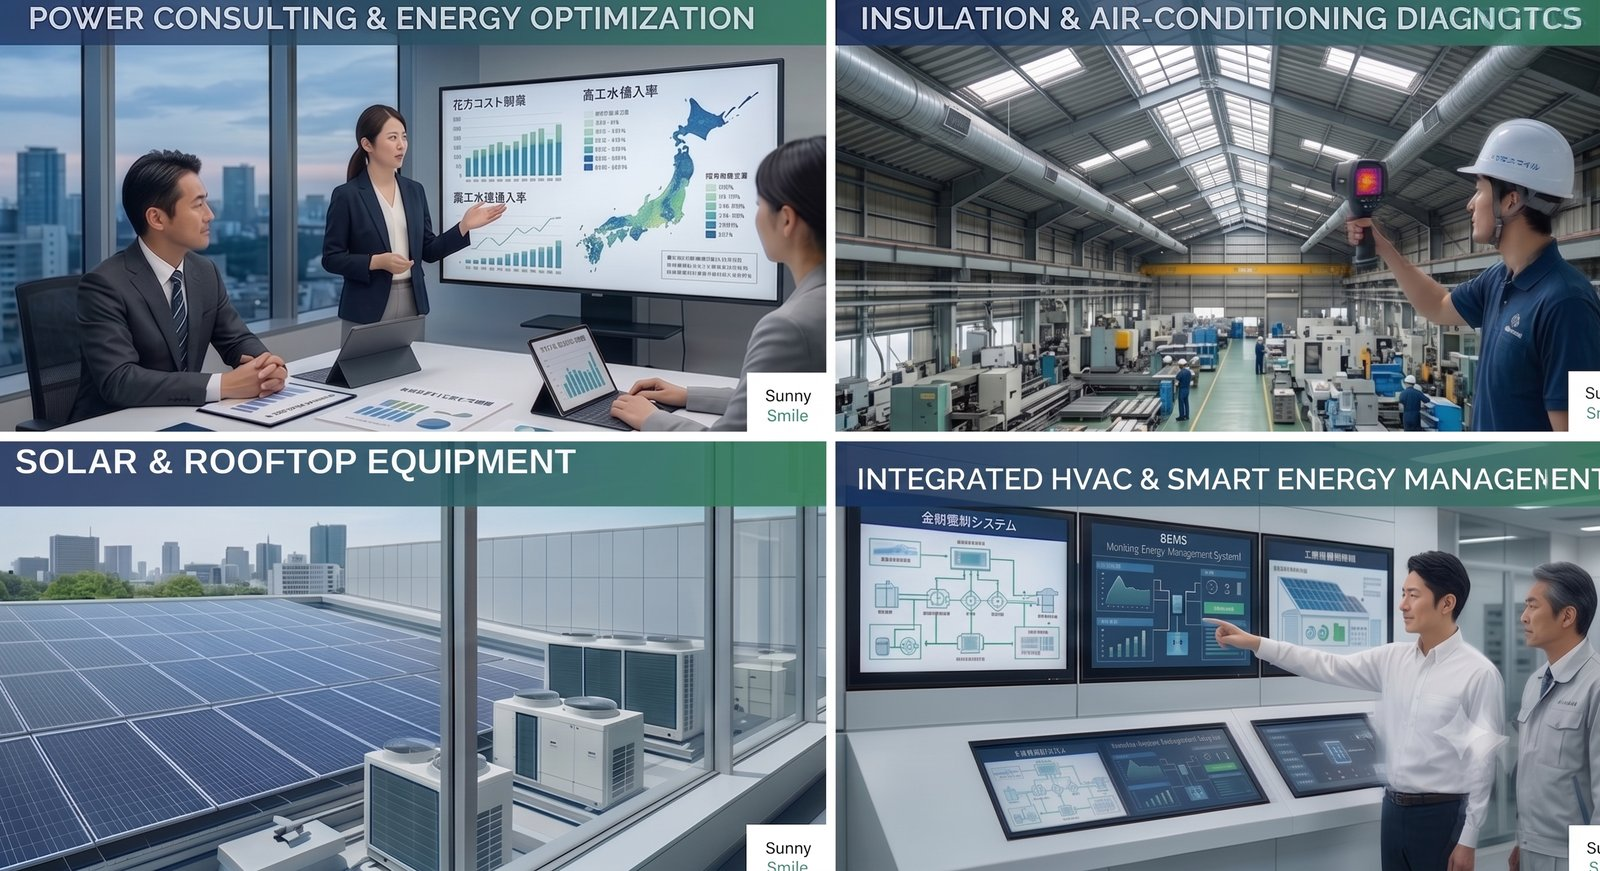
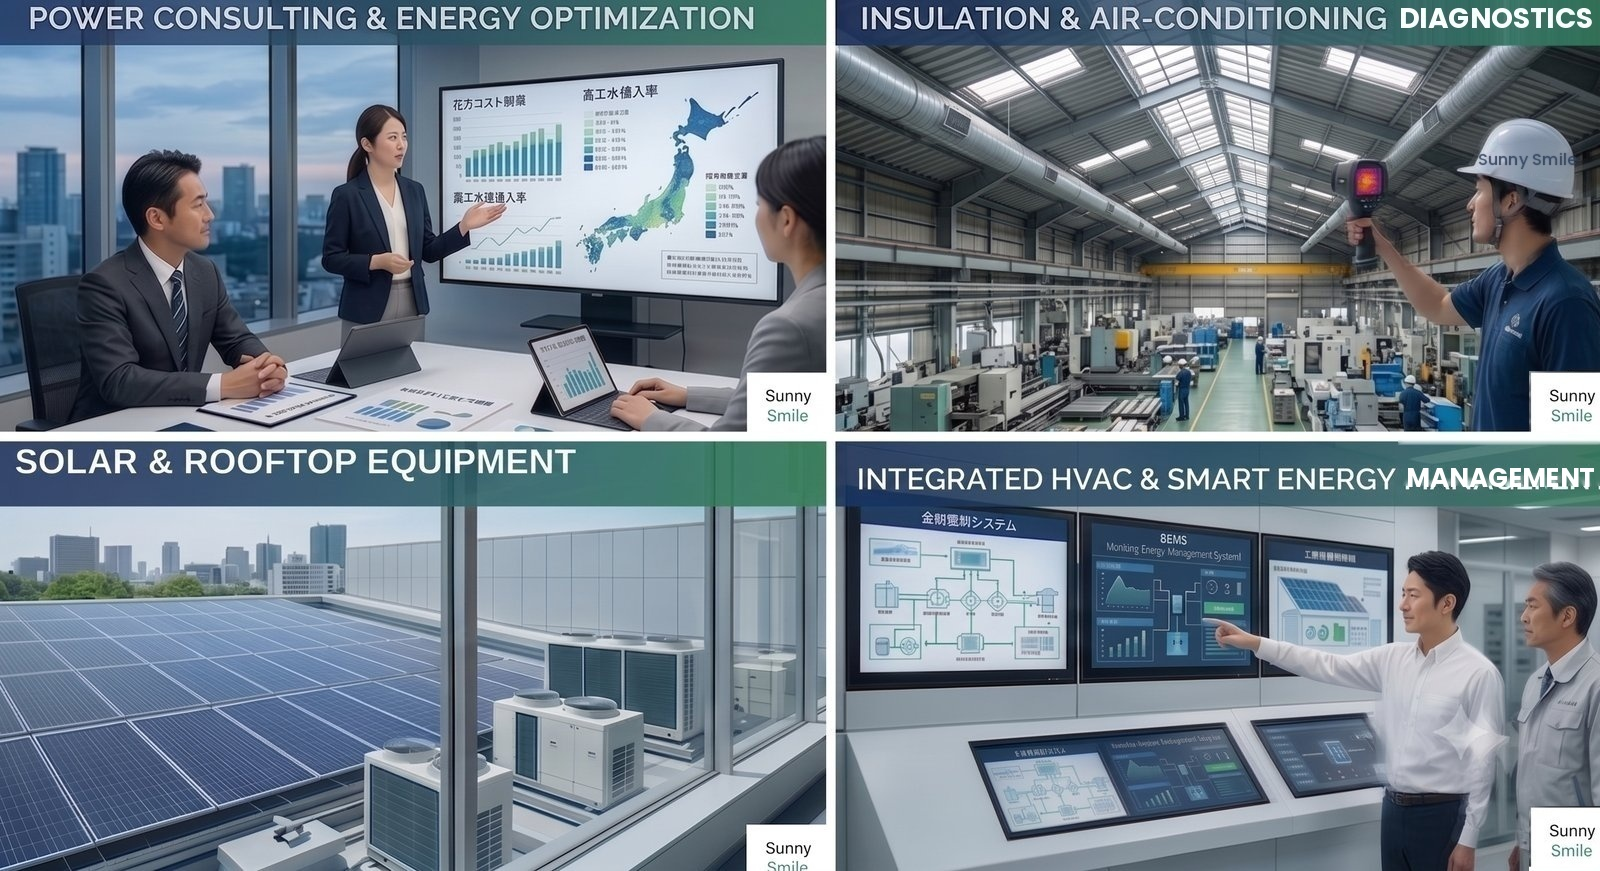
Add files via upload

diff --git a/news.html b/news.html
@@ -1,4 +1,4 @@
-<!-- Sunny Smile株式会社 サイト v3.1 / 2026-07-16: フッターの電話番号を本社050-6882-7183に更新。詳細は CHANGELOG.md を参照 -->
+<!-- Sunny Smile株式会社 サイト v3.3 / 2026-07-16: お知らせ第4弾（エリア空調コラム）を掲載。詳細は CHANGELOG.md を参照 -->
 <!-- ニュースの追加方法: 下記の <div class="news-list"> 内に .news-card ブロックをコピーして、
      日付・タグ・タイトル・本文を書き換えてください。1件目を追加したら .news-empty のブロックは削除します。 -->
 <!DOCTYPE html>
@@ -53,6 +53,21 @@
     <div class="container">
 
       <div class="news-list reveal-stagger">
+        <div class="news-card">
+          <div>
+            <span class="news-date">2026.07.01</span>
+          </div>
+          <div>
+            <span class="news-tag">省エネコラム</span>
+            <h3>時代は全室空調からエリア空調へ！工場の空調費削減のカギ</h3>
+            <ul class="check-list">
+              <li>工場全体を空調機で常時冷暖房する「全室空調」は、使用していないエリアにも常時電力を消費してしまうという課題があります</li>
+              <li>近年は、作業内容や発熱量に応じてエリアごとに温度を最適化する「エリア空調（ゾーン空調）」への切り替えが進んでいます</li>
+              <li>工場の消費電力の約3割は空調が占めるとされ、無駄な冷暖房を大幅に削減できます</li>
+              <li>全室空調が出来ない広い空間や、常時出入りの多い空間、更にはシャッターなどが常時開いている半オープンな状況で空調を諦めていた工場などに、エリア空調がマッチングします。導入をご検討の企業様は、是非お気軽にご相談ください</li>
+            </ul>
+          </div>
+        </div>
         <div class="news-card">
           <div>
             <span class="news-date">2026.04.10</span>

diff --git a/index.html b/index.html
@@ -1,4 +1,4 @@
-<!-- Sunny Smile株式会社 サイト v3.1 / 2026-07-16: フッターの電話番号を本社050-6882-7183に更新。詳細は CHANGELOG.md を参照 -->
+<!-- Sunny Smile株式会社 サイト v3.2 / 2026-07-16: TOPページのメイン写真（4枚組）を微修正。詳細は CHANGELOG.md を参照 -->
 <!DOCTYPE html>
 <html lang="ja">
 <head>

diff --git a/CHANGELOG.md b/CHANGELOG.md
@@ -2,6 +2,20 @@
 
 このホームページの改良履歴です。今後の修正も、この一覧にバージョンとして追記していきます。
 
+## v3.3（2026-07-16）
+
+- お知らせページに4件目の記事を掲載（掲載日：2026-07-01）
+  - タイトル：「時代は全室空調からエリア空調へ！工場の空調費削減のカギ」
+  - 全室空調とエリア空調（ゾーン空調）の違い、省エネ効果、導入が向いている工場の特徴を4行で紹介
+
+## v3.2（2026-07-16）
+
+- TOPページのメイン写真（4枚組コラージュ、`images/hero-collage.jpg`）を微修正
+  - 右上パネルのヘルメットの文字を判読できない表記から「Sunny Smile」に修正
+  - 右上パネルの見出し文字「DIAGNGTCS」の誤字を「DIAGNOSTICS」に修正
+  - 右下パネルの見出し「MANAGEMENT」が右端で欠けていたのを修正
+  - 右上・右下パネルの「Sunny Smile」ロゴが右端で見切れていたのを修正
+
 ## v3.1（2026-07-16）
 
 - 電話番号を追加・整理